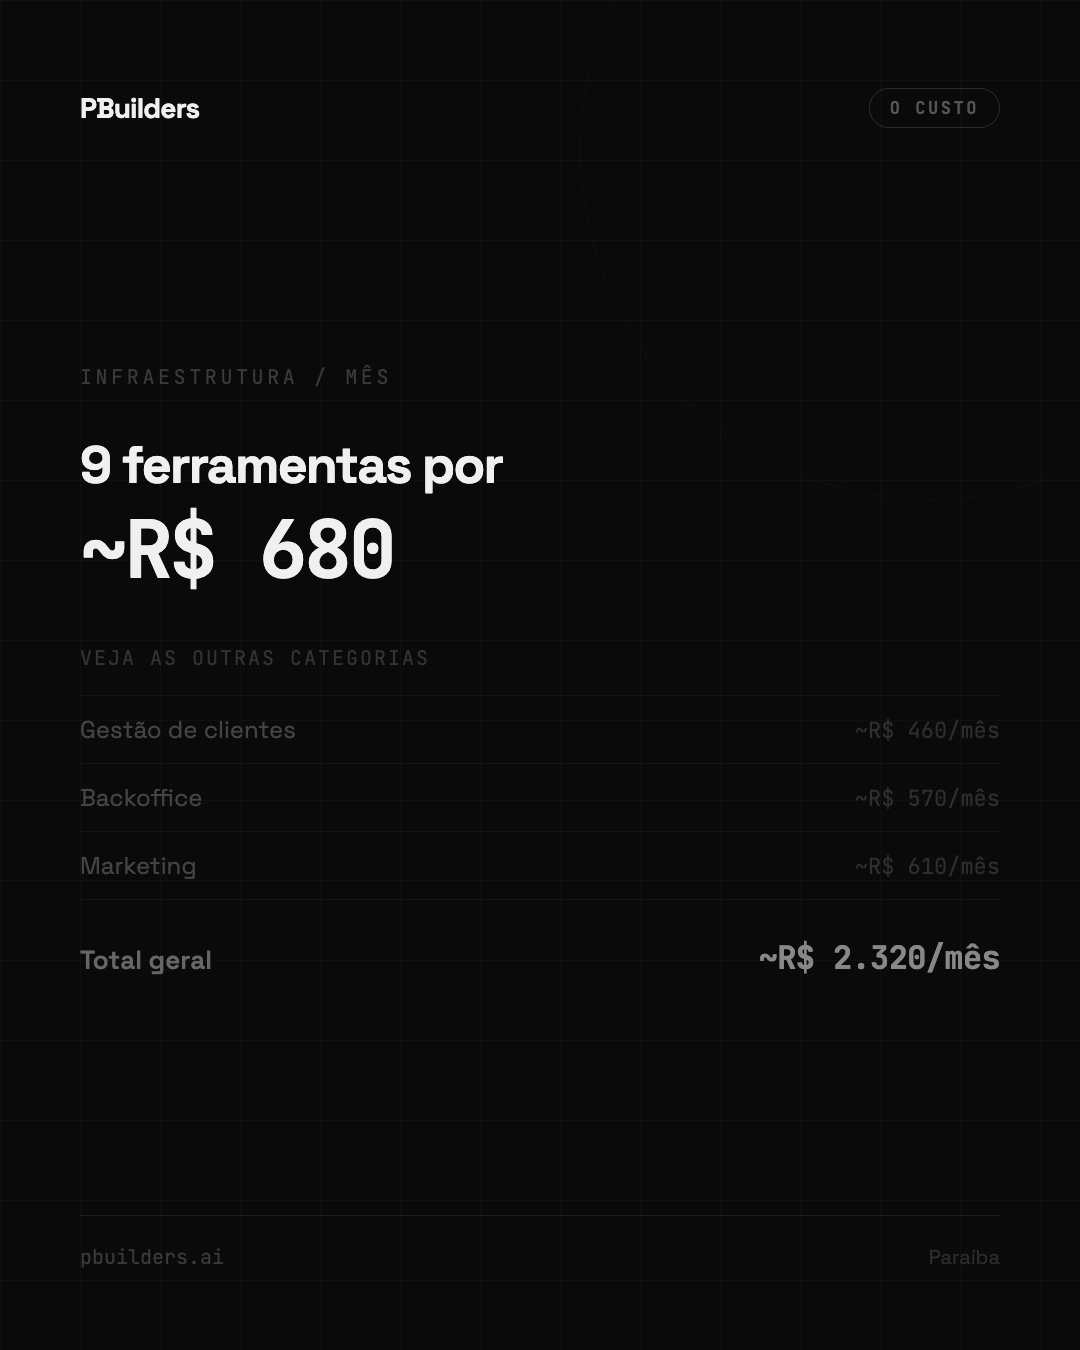
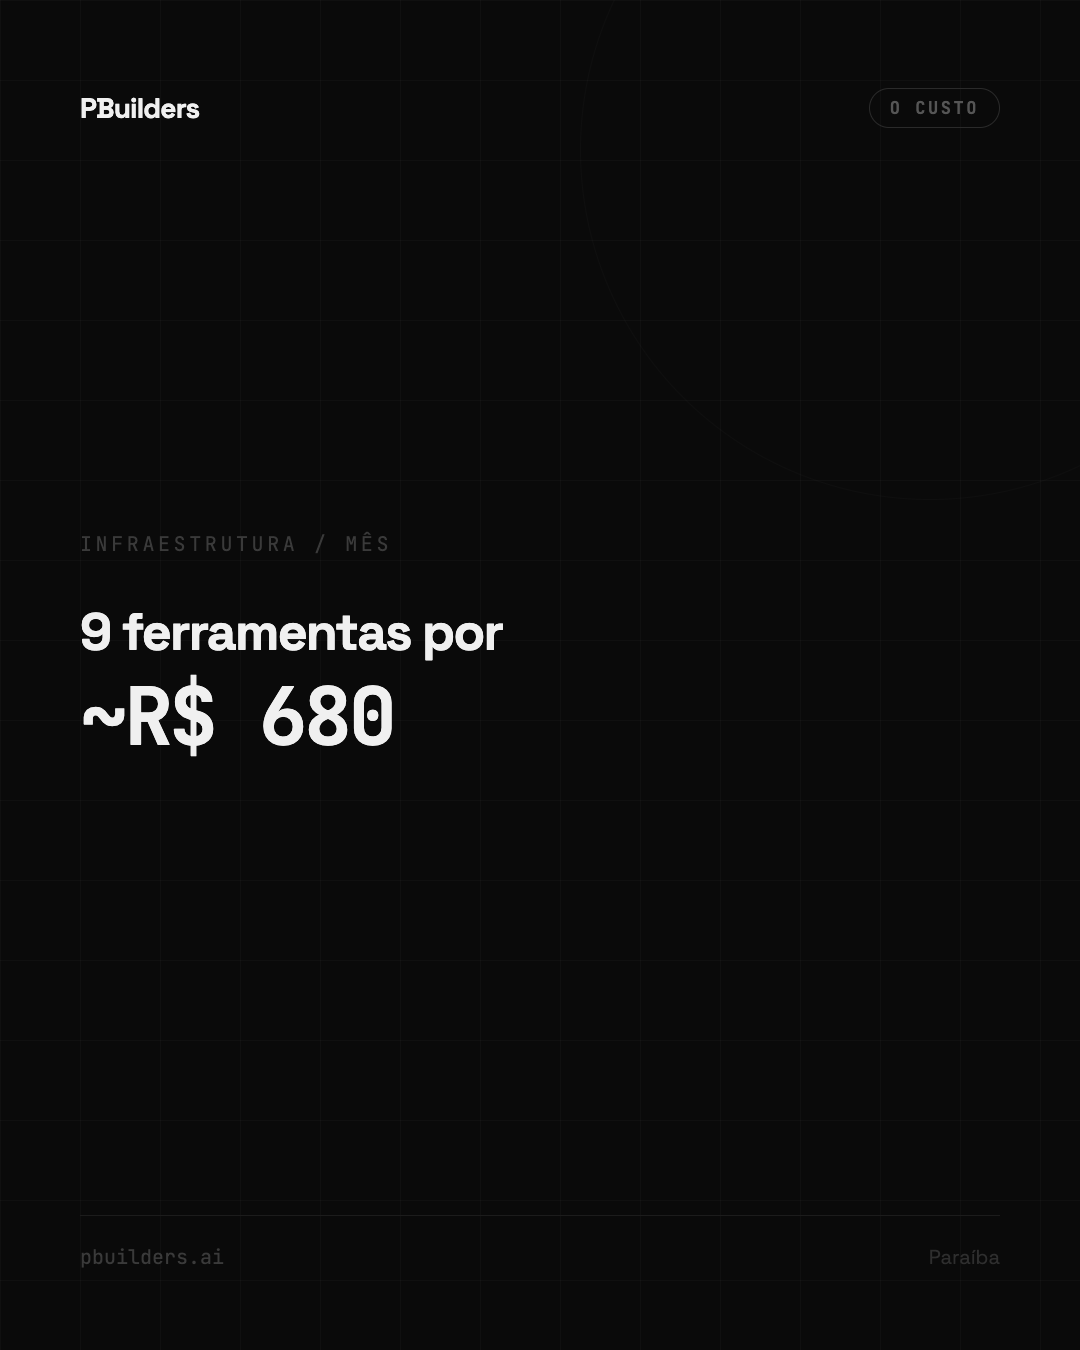
Slide subtotal infra: mostrar só valor da categoria, sem comparativo

diff --git a/content/2026-04-02-stack-saas-infraestrutura/carousel-infraestrutura.html b/content/2026-04-02-stack-saas-infraestrutura/carousel-infraestrutura.html
@@ -616,25 +616,6 @@
       <div class="sub-headline">9 ferramentas por</div>
       <div class="sub-value">~R$ 680</div>
 
-      <div class="tease-label">Veja as outras categorias</div>
-      <div class="tease-list">
-        <div class="tease-row">
-          <span class="tease-cat">Gestão de clientes</span>
-          <span class="tease-cost">~R$ 460/mês</span>
-        </div>
-        <div class="tease-row">
-          <span class="tease-cat">Backoffice</span>
-          <span class="tease-cost">~R$ 570/mês</span>
-        </div>
-        <div class="tease-row">
-          <span class="tease-cat">Marketing</span>
-          <span class="tease-cost">~R$ 610/mês</span>
-        </div>
-      </div>
-      <div class="total-row">
-        <span class="total-label">Total geral</span>
-        <span class="total-value">~R$ 2.320/mês</span>
-      </div>
     </div>
 
     <div class="footer">
